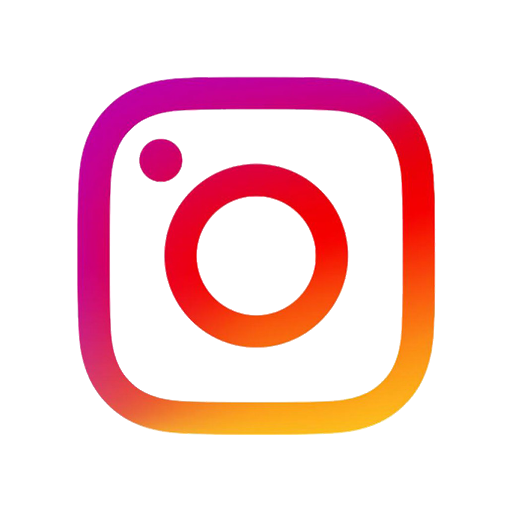
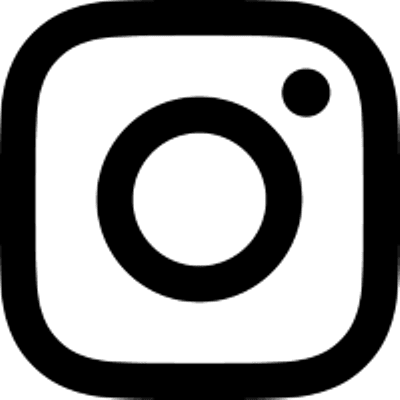
Updated footer to look like Geoff's.

diff --git a/src/views/Footer/Footer.jsx b/src/views/Footer/Footer.jsx
@@ -4,48 +4,15 @@ import "../../styles/styles.css"
 
 export default function Footer() {
     return (
-        <div style={{backgroundColor: "var(--Color5)"}}>
-            <br />
-            <Container fluid={true}>
-                <Row className="justify-content-md-center">
-                    <Col md="1" />
-                    <Col md="2">
-                        <img src={require('../../assets/img/logo.png')} style={{margin: "5px", maxWidth: "15%", maxHeight: "15%"}} />
-                        <img src={require('../../assets/img/facebook.png')} style={{margin: "5px", maxWidth: "15%", maxHeight: "15%"}} />
-                        <img src={require('../../assets/img/instagram.png')} style={{margin: "5px", maxWidth: "15%", maxHeight: "15%"}} />
-                        <img src={require('../../assets/img/linkedin.png')} style={{margin: "5px", maxWidth: "15%", maxHeight: "15%"}} />
-                    </Col>
-                    <Col md="1" className="center">
-                        <a style={{color: "var(--Color1)"}} href="/"> #resteasier </a>
-                    </Col>
-                    <Col md="8" />
-                </Row>
-                <Row className="justify-content-md-center">
-                    <Col md="1" />
-                    <Col md="2">
-                        <a style={{color: "var(--Color1)"}} href="/about"> About RestEasy </a>
-                    </Col>
-                    <Col md="9">
-                        <a style={{color: "var(--Color1)"}} href="/privacypolicy"> Privacy Policy / Terms & Conditions </a>
-                    </Col>
-                </Row>
-                <Row className="justify-content-md-center">
-                    <Col md="1" />
-                    <Col md="2">
-                        <a style={{color: "var(--Color1)"}} href="/story"> Our Story </a>
-                    </Col>
-                    <Col md="9">
-                        <a style={{color: "var(--Color1)"}} href="/press"> Press </a>
-                    </Col>
-                </Row>
-                <Row className="justify-content-md-center">
-                    <Col md="1" />
-                    <Col md="10">
-                        <div style={{textAlign: "right"}}> © 2020 RestEasy Technologies, Inc. </div>
-                    </Col>
-                    <Col md="1" />
-                </Row>
-            </Container>
+        <div style={{backgroundColor: "var(--Color1)"}}>
+                        <span style={{margin: "40px", color: "white"}}> © 2020 RestEasy Technologies, Inc. </span>
+                        <a href="/privacypolicy" style={{margin: "40px", color: "white"}}> Privacy Policy / Terms & Conditions </a>
+                        <a href="/about" style={{margin: "40px", color: "white"}}> About RestEasy </a>
+                        <a href="/press" style={{margin: "40px", color: "white"}}> Press </a>
+                        <img src={require('../../assets/img/facebook.png')} style={{margin: "10px", maxHeight: "40px"}} />
+                        <img src={require('../../assets/img/instagram.png')} style={{margin: "10px",maxHeight: "40px"}} />
+                        <img src={require('../../assets/img/linkedin.png')} style={{margin: "10px",maxHeight: "40px"}} />
+                        <a href="/" style={{margin: "40px", color: "white"}}> #resteasier </a>
             <br />
         </div>
     )

diff --git a/src/PageWrapper.js b/src/PageWrapper.js
@@ -8,7 +8,7 @@ function PageWrapper(props){
     return(
         <div style={{height: "100%", backgroundColor: "white"}}>
             <Header search={true}/>
-            <div style={{minHeight: "calc(100vh - 70px)", margin: "0"}}> {props.content} </div>
+            <div style={{minHeight: "calc(100vh - 50px)", margin: "0"}}> {props.content} </div>
             <Footer />
         </div>
     )
